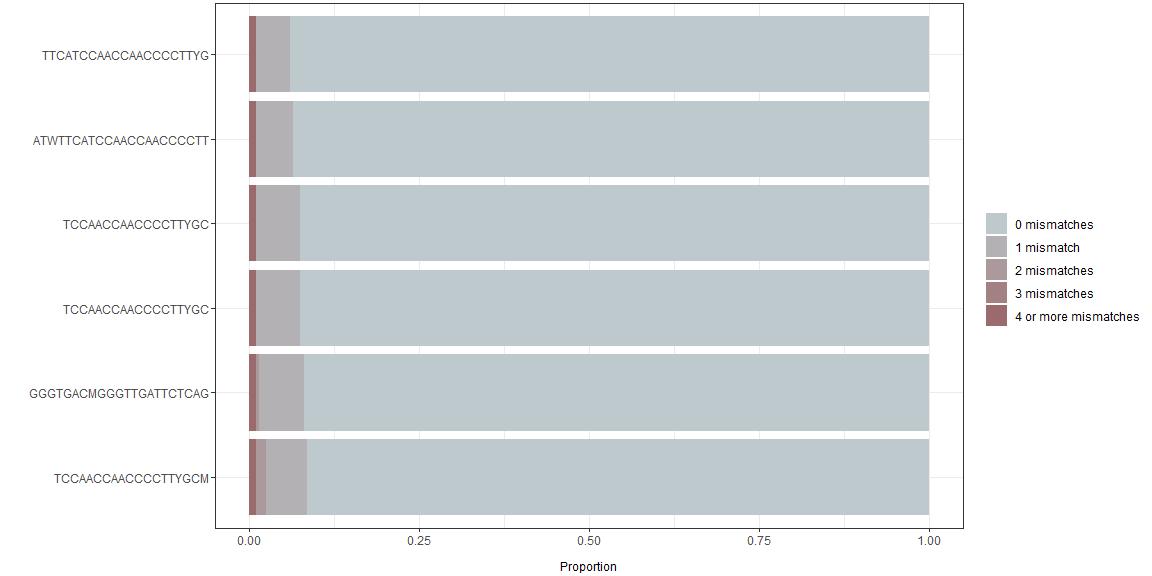
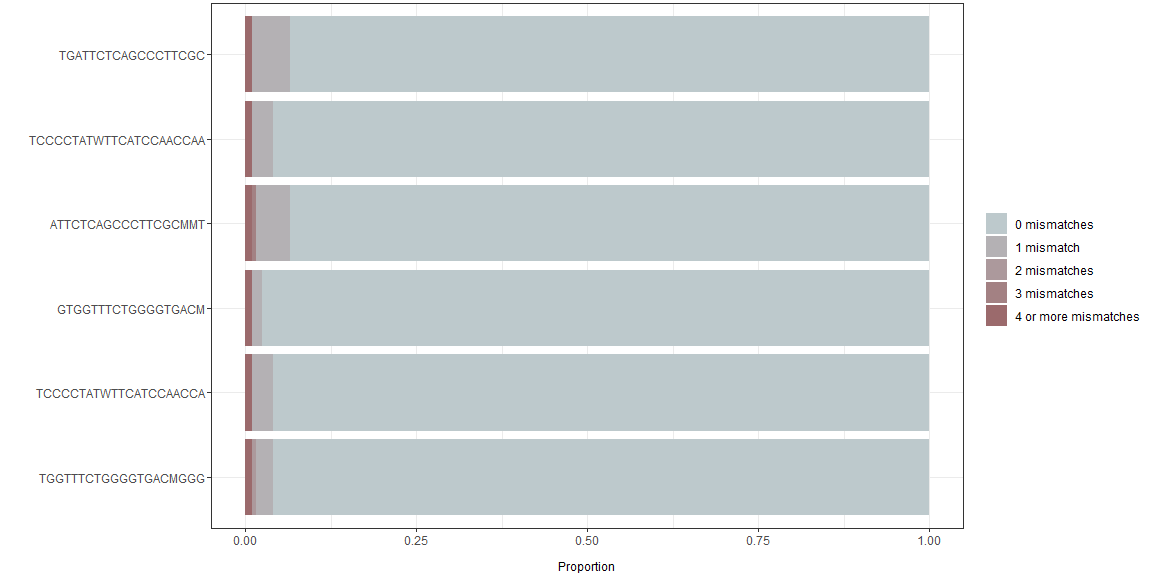
man

diff --git a/README.md b/README.md
@@ -9,6 +9,8 @@ status](https://github.com/sofpn/rprimer/workflows/R-CMD-check/badge.svg)](https
 coverage](https://codecov.io/gh/sofpn/rprimer/branch/master/graph/badge.svg)](https://codecov.io/gh/sofpn/rprimer?branch=master)
 <!-- badges: end -->
 
+*This package is in development*
+
 ## Installation
 
 rprimer can be installed from [GitHub](https://github.com/) with:
@@ -28,7 +30,7 @@ library(rprimer)
 rprimer provides tools for designing degenerate DNA oligos for sequence
 variable targets.
 
-The package contains five functions:
+The design workflow consists of five functions:
 
   - `consensusProfile()`
   - `oligos()`
@@ -38,9 +40,13 @@ The package contains five functions:
 
 ## Shiny application
 
-The package can be run through a Shiny application. It is loaded by:
+The design workflow can also be run through a Shiny application. It is
+loaded by:
 
   - `runRprimerApp()`
+
+The application is also available
+[online](https://sofpn.shinyapps.io/rprimer).
 
 ## Workflow
 
@@ -179,10 +185,10 @@ plotData(myAssays)
 ### Check match
 
 `checkMatch()` shows the proportion and names of the target sequences in
-the input alignment that match with the generated oligos or assays. As
-an example, we check six randomly selected oligos from `myOligos`:
+the input alignment that match with the generated oligos or assays:
 
 ``` r
+## Randomly select six oligos to illustrate an example 
 selection <- sample(seq_len(nrow(myOligos)), size = 6)
 
 matchTableOligos <- checkMatch(myOligos[selection, ], target = myAlignment)
@@ -192,12 +198,12 @@ Results:
 
 | iupacSequence          | perfectMatch | idPerfectMatch | oneMismatch | idOneMismatch | twoMismatches | idTwoMismatches | threeMismatches | idThreeMismatches | fourOrMoreMismatches | idFourOrMoreMmismatches |
 | :--------------------- | -----------: | :------------- | ----------: | :------------ | ------------: | :-------------- | --------------: | :---------------- | -------------------: | :---------------------- |
-| TTCATCCAACCAACCCCTTYG  |         0.94 | M73218.1….     |        0.05 | FJ457024….    |          0.00 |                 |               0 |                   |                 0.01 | MN614142….              |
-| ATWTTCATCCAACCAACCCCTT |         0.94 | M73218.1….     |        0.06 | FJ457024….    |          0.00 |                 |               0 |                   |                 0.01 | MN614142….              |
-| TCCAACCAACCCCTTYGC     |         0.92 | M73218.1….     |        0.06 | FJ457024….    |          0.00 |                 |               0 |                   |                 0.01 | MN614142….              |
-| TCCAACCAACCCCTTYGC     |         0.92 | M73218.1….     |        0.06 | FJ457024….    |          0.00 |                 |               0 |                   |                 0.01 | MN614142….              |
-| GGGTGACMGGGTTGATTCTCAG |         0.92 | M73218.1….     |        0.06 | AB222183….    |          0.00 | JQ953665.1      |               0 |                   |                 0.01 | MN614142….              |
-| TCCAACCAACCCCTTYGCM    |         0.92 | M73218.1….     |        0.06 | FJ457024….    |          0.01 | AY575857….      |               0 |                   |                 0.01 | MN614142….              |
+| TGATTCTCAGCCCTTCGC     |         0.94 | M73218.1….     |        0.06 | JF443725….    |             0 |                 |               0 |                   |                 0.01 | MN614142….              |
+| TCCCCTATWTTCATCCAACCAA |         0.96 | M73218.1….     |        0.03 | AY575857….    |             0 |                 |               0 |                   |                 0.01 | MN614142….              |
+| ATTCTCAGCCCTTCGCMMT    |         0.94 | M73218.1….     |        0.05 | AB222183….    |             0 |                 |               0 | JF443725.1        |                 0.01 | MN614142….              |
+| GTGGTTTCTGGGGTGACM     |         0.98 | M73218.1….     |        0.01 | BD378055….    |             0 |                 |               0 |                   |                 0.01 | MN614142….              |
+| TCCCCTATWTTCATCCAACCA  |         0.96 | M73218.1….     |        0.03 | AY575857….    |             0 |                 |               0 |                   |                 0.01 | MN614142….              |
+| TGGTTTCTGGGGTGACMGGG   |         0.96 | M73218.1….     |        0.03 | BD378055….    |             0 | JQ953665.1      |               0 |                   |                 0.01 | MN614142….              |
 
 The match table can be visualized using `plotData()`:
 
